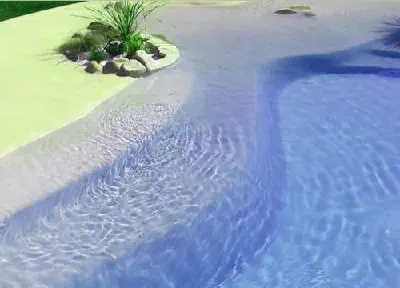
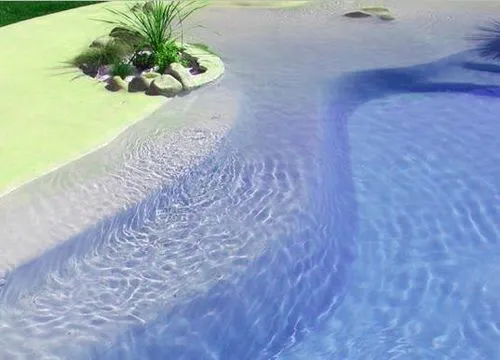
Wallpapers and themes functionality

diff --git a/src/components/Desktop.vue b/src/components/Desktop.vue
@@ -1,8 +1,30 @@
 <script setup>
-import { ref } from 'vue'
+import { ref, provide } from 'vue'
 import File from '@/components/File.vue'
 import { useMouse, useElementSize, until } from '@vueuse/core'
 import AppWindow from './AppWindow.vue'
+
+const currentTheme = ref({ mainColor: '#807e7e', secondaryColor: '#c3c3c3' })
+const currentWallpaper = ref('/public/Media/Wallpapers/Wallpaper1.webp')
+
+const changeTheme = (newTheme) => {
+  currentTheme.value = newTheme
+}
+
+const changeWallpaper = (newWallpaper) => {
+  currentWallpaper.value = newWallpaper
+  console.log(currentWallpaper.value)
+}
+
+provide('currentTheme', {
+  currentTheme,
+  changeTheme
+})
+
+provide('currentWallpaper', {
+  currentWallpaper,
+  changeWallpaper
+})
 
 const Files = ref([
   { name: 'My Computer', fileExtension: 'webp', iconScale: 0.9 },
@@ -124,10 +146,20 @@ const putOnTop = (window) => {
   newArr.push(window)
   openWindows.value = newArr
 }
+
+const getSRC = (src) => {
+  console.log(src)
+  return new URL(src.replace('/public', ''), import.meta.url).href
+}
 </script>
 
 <template>
-  <div class="Desktop" id="Desktop" ref="DesktopDom">
+  <div
+    class="Desktop"
+    id="Desktop"
+    ref="DesktopDom"
+    :style="{ backgroundImage: `url(${getSRC(currentWallpaper)})` }"
+  >
     <File
       :style="`top: ${mousePos.y - 50}px; left: ${mousePos.x - 50}px;`"
       v-for="specificFile in Files"
@@ -161,11 +193,10 @@ const putOnTop = (window) => {
 .Desktop {
   flex: 13;
   padding: 12px;
-  background-image: url('/Media/Wallpapers/Wallpaper1.webp');
   background-size: cover;
   background-position: center;
   image-rendering: crisp-edges;
-
+  image-rendering: pixelated;
   display: grid;
   grid-template-columns: repeat(auto-fill, 100px);
   grid-template-rows: repeat(auto-fill, 100px);

diff --git a/src/components/AppWindow.vue b/src/components/AppWindow.vue
@@ -1,11 +1,12 @@
 <script setup>
 import { useElementSize, useMouse } from '@vueuse/core'
-import { defineAsyncComponent, onMounted, ref } from 'vue'
+import { defineAsyncComponent, onMounted, ref, inject } from 'vue'
 
 const props = defineProps(['Name', 'IconExtension', 'MousePos', 'IconScale', 'ComputerSpecs'])
 const closeFunc = defineModel('closeFunc')
 const putOnTop = defineModel('putOnTop')
 const SessionTime = defineModel('SessionTime')
+const { currentTheme } = inject('currentTheme')
 
 const windowDom = ref(null)
 const mousePos = ref(useMouse())
@@ -44,13 +45,19 @@ const stopDragging = () => {
   <div
     class="Window"
     ref="windowDom"
-    :style="
-      isDragging
-        ? { top: mousePos.y - 20 + 'px', left: mousePos.x - windowSize.width / 2 + 'px' }
-        : { top: mousePos, left: mousePos }
-    "
+    :style="{
+      top: isDragging ? mousePos.y - 20 + 'px' : mousePos,
+      left: isDragging ? mousePos.x - windowSize.width / 2 + 'px' : mousePos,
+      border: `10px solid ${currentTheme.secondaryColor}`,
+      backgroundColor: currentTheme.secondaryColor
+    }"
   >
-    <div class="TopBar" @mousedown="startDragging" @mouseup="stopDragging">
+    <div
+      class="TopBar"
+      @mousedown="startDragging"
+      @mouseup="stopDragging"
+      :style="{ backgroundColor: currentTheme.mainColor }"
+    >
       <div class="AppDetails">
         <img
           v-if="IconExtension == 'webp'"
@@ -97,14 +104,11 @@ const stopDragging = () => {
 .Window {
   position: fixed;
   width: fit-content;
-  border: 10px solid var(--gray);
-  background-color: var(--gray);
   display: flex;
   flex-direction: column;
   gap: 5px;
 }
 .TopBar {
-  background-color: var(--darkGray);
   height: 30px;
   padding: 3px 6px;
   display: flex;

diff --git a/src/components/apps/Personalize.vue b/src/components/apps/Personalize.vue
@@ -1,5 +1,5 @@
 <script setup>
-import { ref } from 'vue'
+import { ref, inject } from 'vue'
 
 const wallpaperPaths = Object.keys(import.meta.glob('/public/Media/Wallpapers/*'))
 
@@ -10,7 +10,8 @@ const colorList = [
   { mainColor: '#116309', secondaryColor: '#1cdf0b' }
 ]
 
-const currentColor = ref(colorList[0])
+const { currentTheme, changeTheme } = inject('currentTheme')
+const { currentWallpaper, changeWallpaper } = inject('currentWallpaper')
 
 const getSRC = (src) => {
   return new URL(src.replace('/public', ''), import.meta.url).href
@@ -30,14 +31,19 @@ const getSRC = (src) => {
             backgroundColor: clr.mainColor,
             boxShadow: `3px 3px 0px 3px ${clr.secondaryColor}`
           }"
-          @click="currentColor = clr"
+          @click="changeTheme(clr)"
         ></button>
       </div>
     </div>
     <div class="Wallpapers col">
       <h1>Wallpapers:</h1>
       <div class="WallpapersList row">
-        <img :src="getSRC(wlp)" v-for="wlp in wallpaperPaths" :key="JSON.stringify(wlp)" />
+        <img
+          :src="getSRC(wlp)"
+          v-for="wlp in wallpaperPaths"
+          :key="JSON.stringify(wlp)"
+          @click="changeWallpaper(wlp)"
+        />
       </div>
     </div>
   </div>
